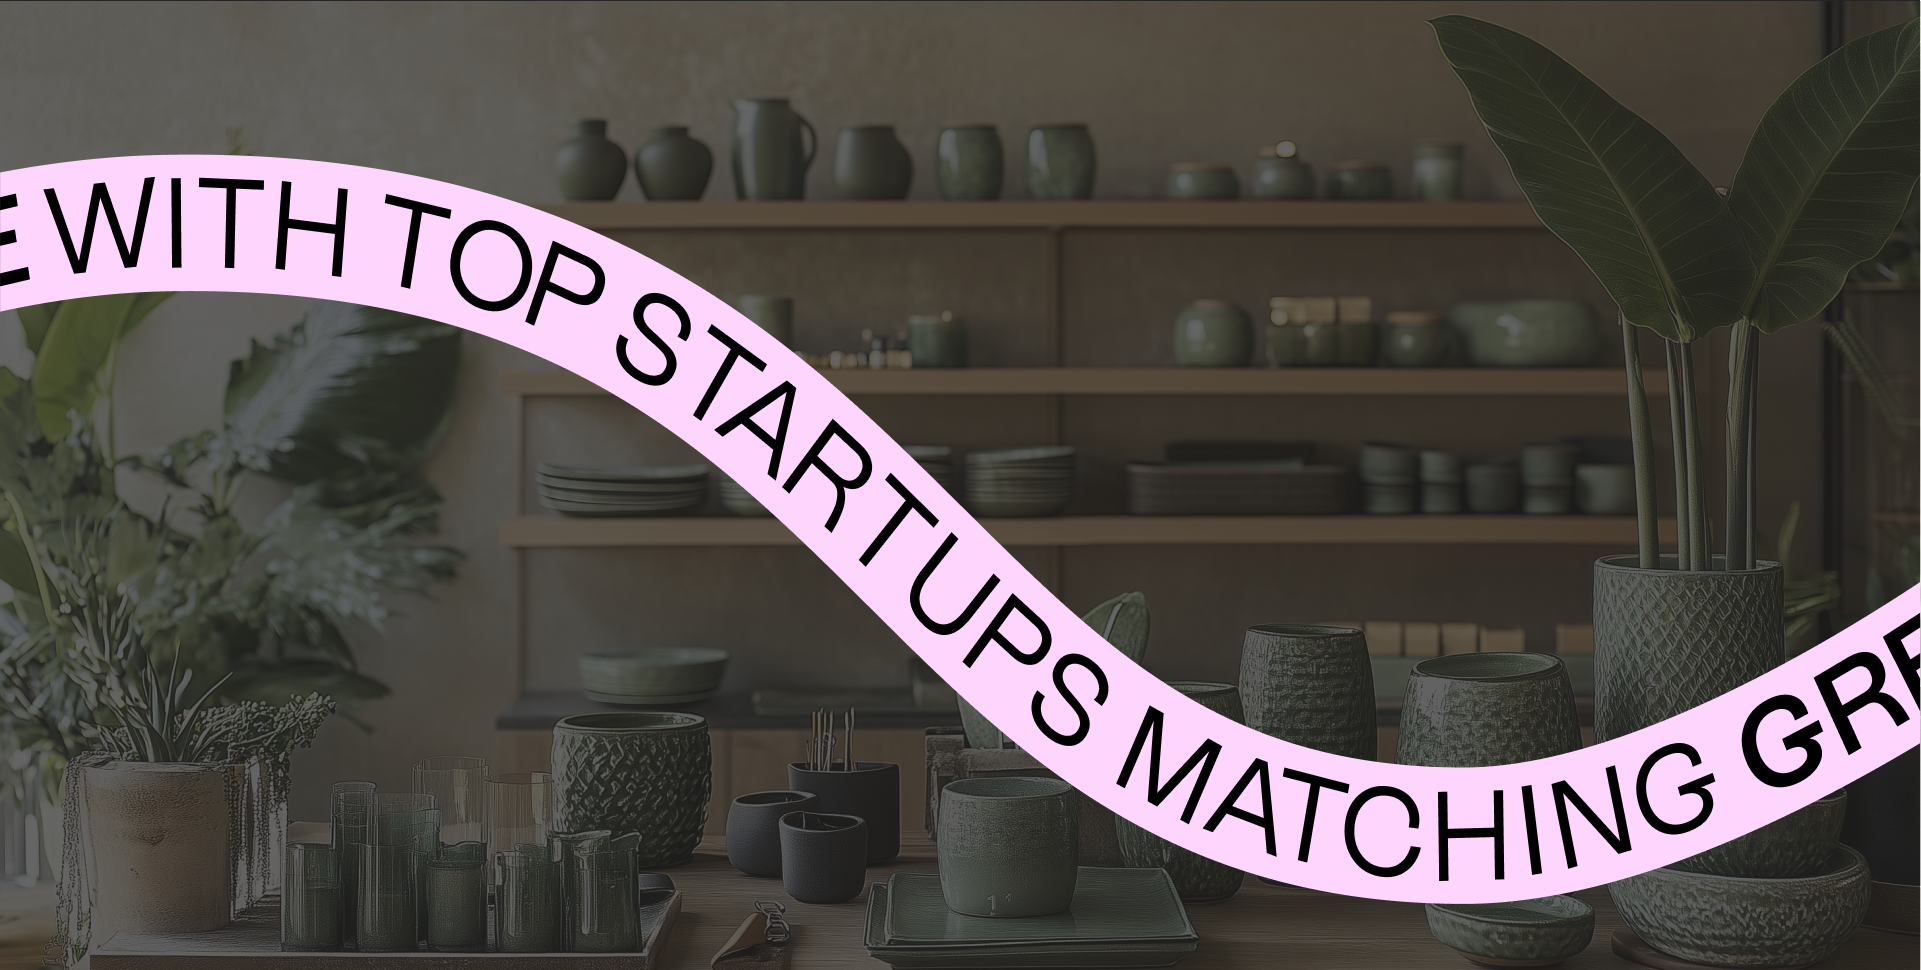
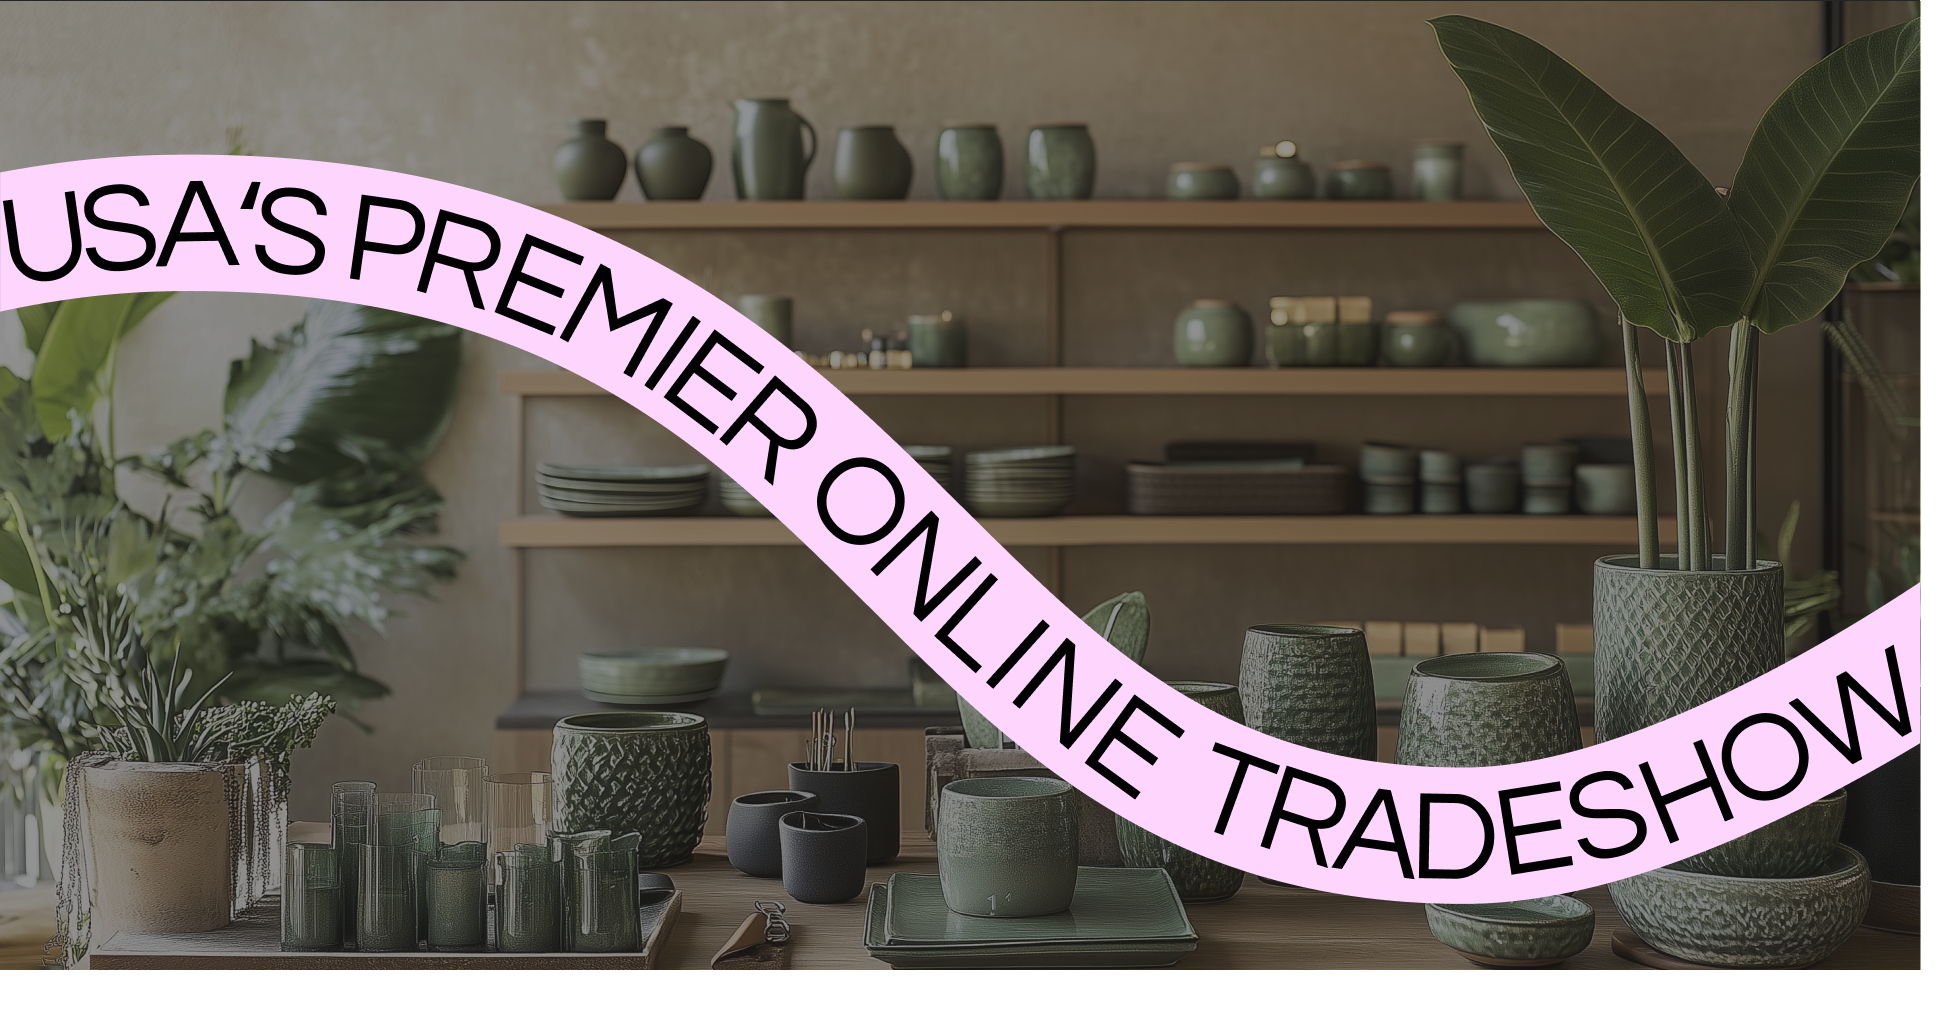
Changed minor UI issues and front cover

diff --git a/components/landing-page.tsx b/components/landing-page.tsx
@@ -98,16 +98,19 @@ export function LandingPageComponent() {
           />
           */}
         <div className="absolute inset-0">
-          <div className="container mx-auto px-4 h-full flex flex-col justify-center items-start text-white text-center" style={{ width: '800px', marginLeft: '100px' }}>
+          <div className="container mx-auto px-4 h-full flex flex-col justify-center items-start text-white text-center" style={{ width: '800px', marginLeft: '300px' }}>
             <p className="text-white text-lg md:text-[30px] leading-normal tracking-[0px] font-poppins font-bold animate-[fadeInUp_1s_ease-out] opacity-0 [animation-fill-mode:forwards] [animation-delay:0.2s]" style={{ alignSelf: 'flex-start', position: 'relative', top: '500px' }}>
               12 January 2026 - 28 February 2026
             </p>
             <h1 className="text-4xl md:text-[96px] leading-tight md:leading-[93.5px] tracking-[-2px] md:tracking-[-8px] font-normal mb-4 font-tilt-warp text-right" style={{ width: '100%', marginLeft: '700px' }}>
-              <div className="inline-block animate-[fadeInUp_1s_ease-out] opacity-0 [animation-fill-mode:forwards] [animation-delay:0.4s]" style={{ fontSize: '96px', lineHeight: '96px', letterSpacing: '-0.08em' }}>
-                Bringing you the 
+              <div className="inline-block animate-[fadeInUp_1s_ease-out] opacity-0 [animation-fill-mode:forwards] [animation-delay:0.4s]" style={{ fontSize: '96px', lineHeight: '96px', letterSpacing: '-0.04em', fontFamily: 'var(--font-shrikhand)' }}>
+                Discover the 
               </div>
-              <span className="inline-block animate-[fadeInUp_1s_ease-out] opacity-0 [animation-fill-mode:forwards] [animation-delay:0.4s]" style={{ fontSize: '96px', lineHeight: '96px', letterSpacing: '-0.08em' }}>
-                best the US has to offer 
+              <span className="inline-block animate-[fadeInUp_1s_ease-out] opacity-0 [animation-fill-mode:forwards] [animation-delay:0.4s]" style={{ fontSize: '96px', lineHeight: '96px', letterSpacing: '-0.04em', fontFamily: 'var(--font-shrikhand)' }}>
+                best gifts the US 
+              </span>
+              <span className="block animate-[fadeInUp_1s_ease-out] opacity-0 [animation-fill-mode:forwards] [animation-delay:0.6s]" style={{ fontSize: '96px', lineHeight: '96px', letterSpacing: '-0.04em', fontFamily: 'var(--font-shrikhand)' }}>
+                has to offer
               </span>
             </h1>
             <button className="bg-gradient-to-r from-purple-600 to-pink-600 text-white px-8 py-3 rounded-full text-lg font-semibold hover:from-purple-700 hover:to-pink-700 transition-all transform hover:scale-105 animate-[fadeInUp_1s_ease-out] opacity-0 [animation-fill-mode:forwards] [animation-delay:0.8s]" style={{ marginTop: '50px' }}>
@@ -266,7 +269,7 @@ export function LandingPageComponent() {
                 <CarouselItem key={index}>
                   <Card className="p-8 bg-[#F5F0FF]">
                     <blockquote className="text-xl text-center">
-                      `&quot;`{testimonial.quote} `&quot;`
+                      &quot;{testimonial.quote} &quot;
                       <footer className="mt-4 text-muted-foreground">
                         {testimonial.author}
                       </footer>

diff --git a/components/footer.tsx b/components/footer.tsx
@@ -34,8 +34,8 @@ export const Footer = ({ className }: FooterProps) => {
             </div>
             <div className="space-y-4 w-[400px]">
               <p className="text-[11px]">
-                The Toy Fair is the worlds first online trade show dedicated to the UK Toy Industry. 
-                The Toy Fair is brought to you by Acquamelon and powered by XpoFairs.
+                The Gift Fair is the world&apos;s first online trade show dedicated to the US toy Industry. 
+                The Gift Fair is brought to you by Acquamelon and powered by XpoFairs.
               </p>
               
               <div>
@@ -46,7 +46,7 @@ export const Footer = ({ className }: FooterProps) => {
               <div>
                 <h4 className="font-bold text-[11px] mb-1">Opening Hours</h4>
                 <p className="text-[11px]">
-                  Although the show is accessible 24hours a day 7 days a week Exhibitors will be available:
+                  Although the show is accessible 24 hours a day, 7 days a week. Exhibitors will be available:
                 </p>
                 <p className="text-[11px] mt-1">Monday - Friday 10:00 - 17:00</p>
               </div>

diff --git a/app/layout.tsx b/app/layout.tsx
@@ -1,5 +1,5 @@
 import localFont from "next/font/local";
-import { Poppins, Tilt_Warp } from "next/font/google";
+import { Poppins, Tilt_Warp, Shrikhand } from "next/font/google";
 import "./globals.css";
 import { BlurProvider } from './blur-provider';
 import ShareButton from '@/components/ui/ShareButton';
@@ -32,6 +32,13 @@ const poppins = Poppins({
   display: 'swap',
 });
 
+const shrikhand = Shrikhand({
+  subsets: ['latin'],
+  weight: '400',
+  variable: '--font-shrikhand',
+  display: 'swap',
+});
+
 export { metadata };
 
 export default function RootLayout({
@@ -42,7 +49,7 @@ export default function RootLayout({
   return (
     <html lang="en">
       <body
-        className={`${geistSans.variable} ${geistMono.variable} ${tiltWarp.variable} ${poppins.variable} font-poppins antialiased min-h-screen bg-gradient-to-b from-white via-green-100 to-purple-100`}
+        className={`${geistSans.variable} ${geistMono.variable} ${tiltWarp.variable} ${poppins.variable} ${shrikhand.variable} font-poppins antialiased min-h-screen bg-gradient-to-b from-white via-green-100 to-purple-100`}
       >
         <BlurProvider>
           <ShareButton />
